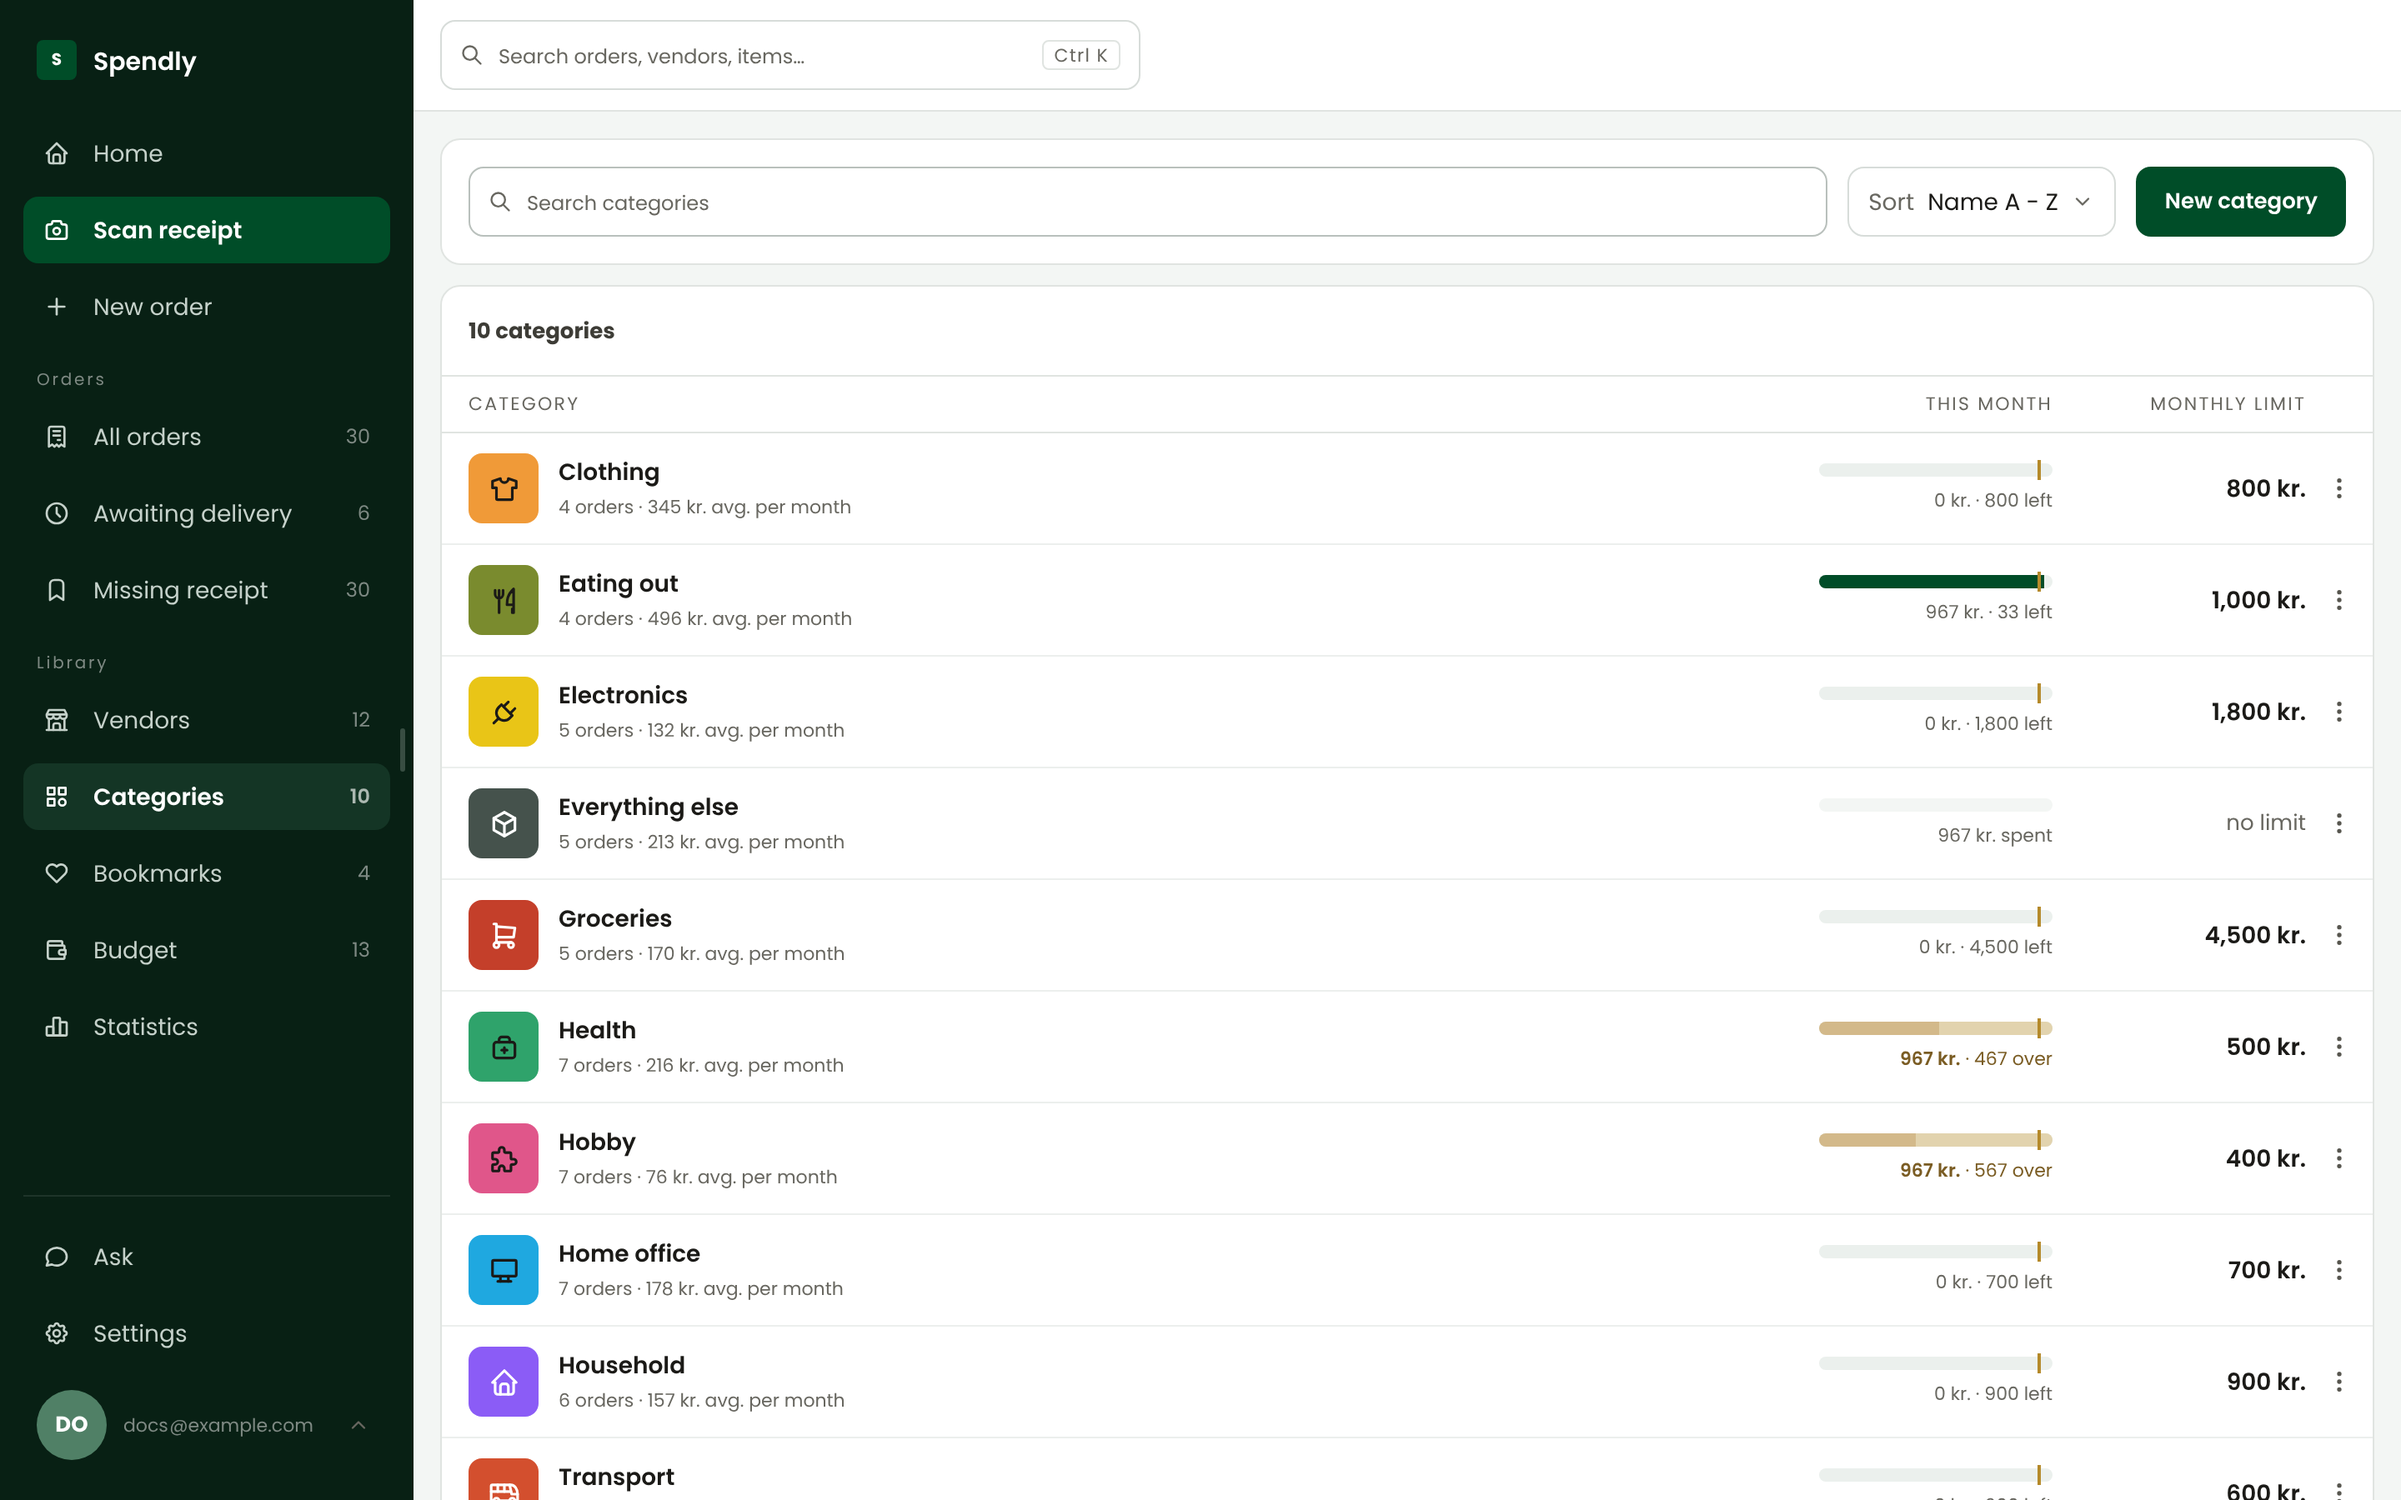
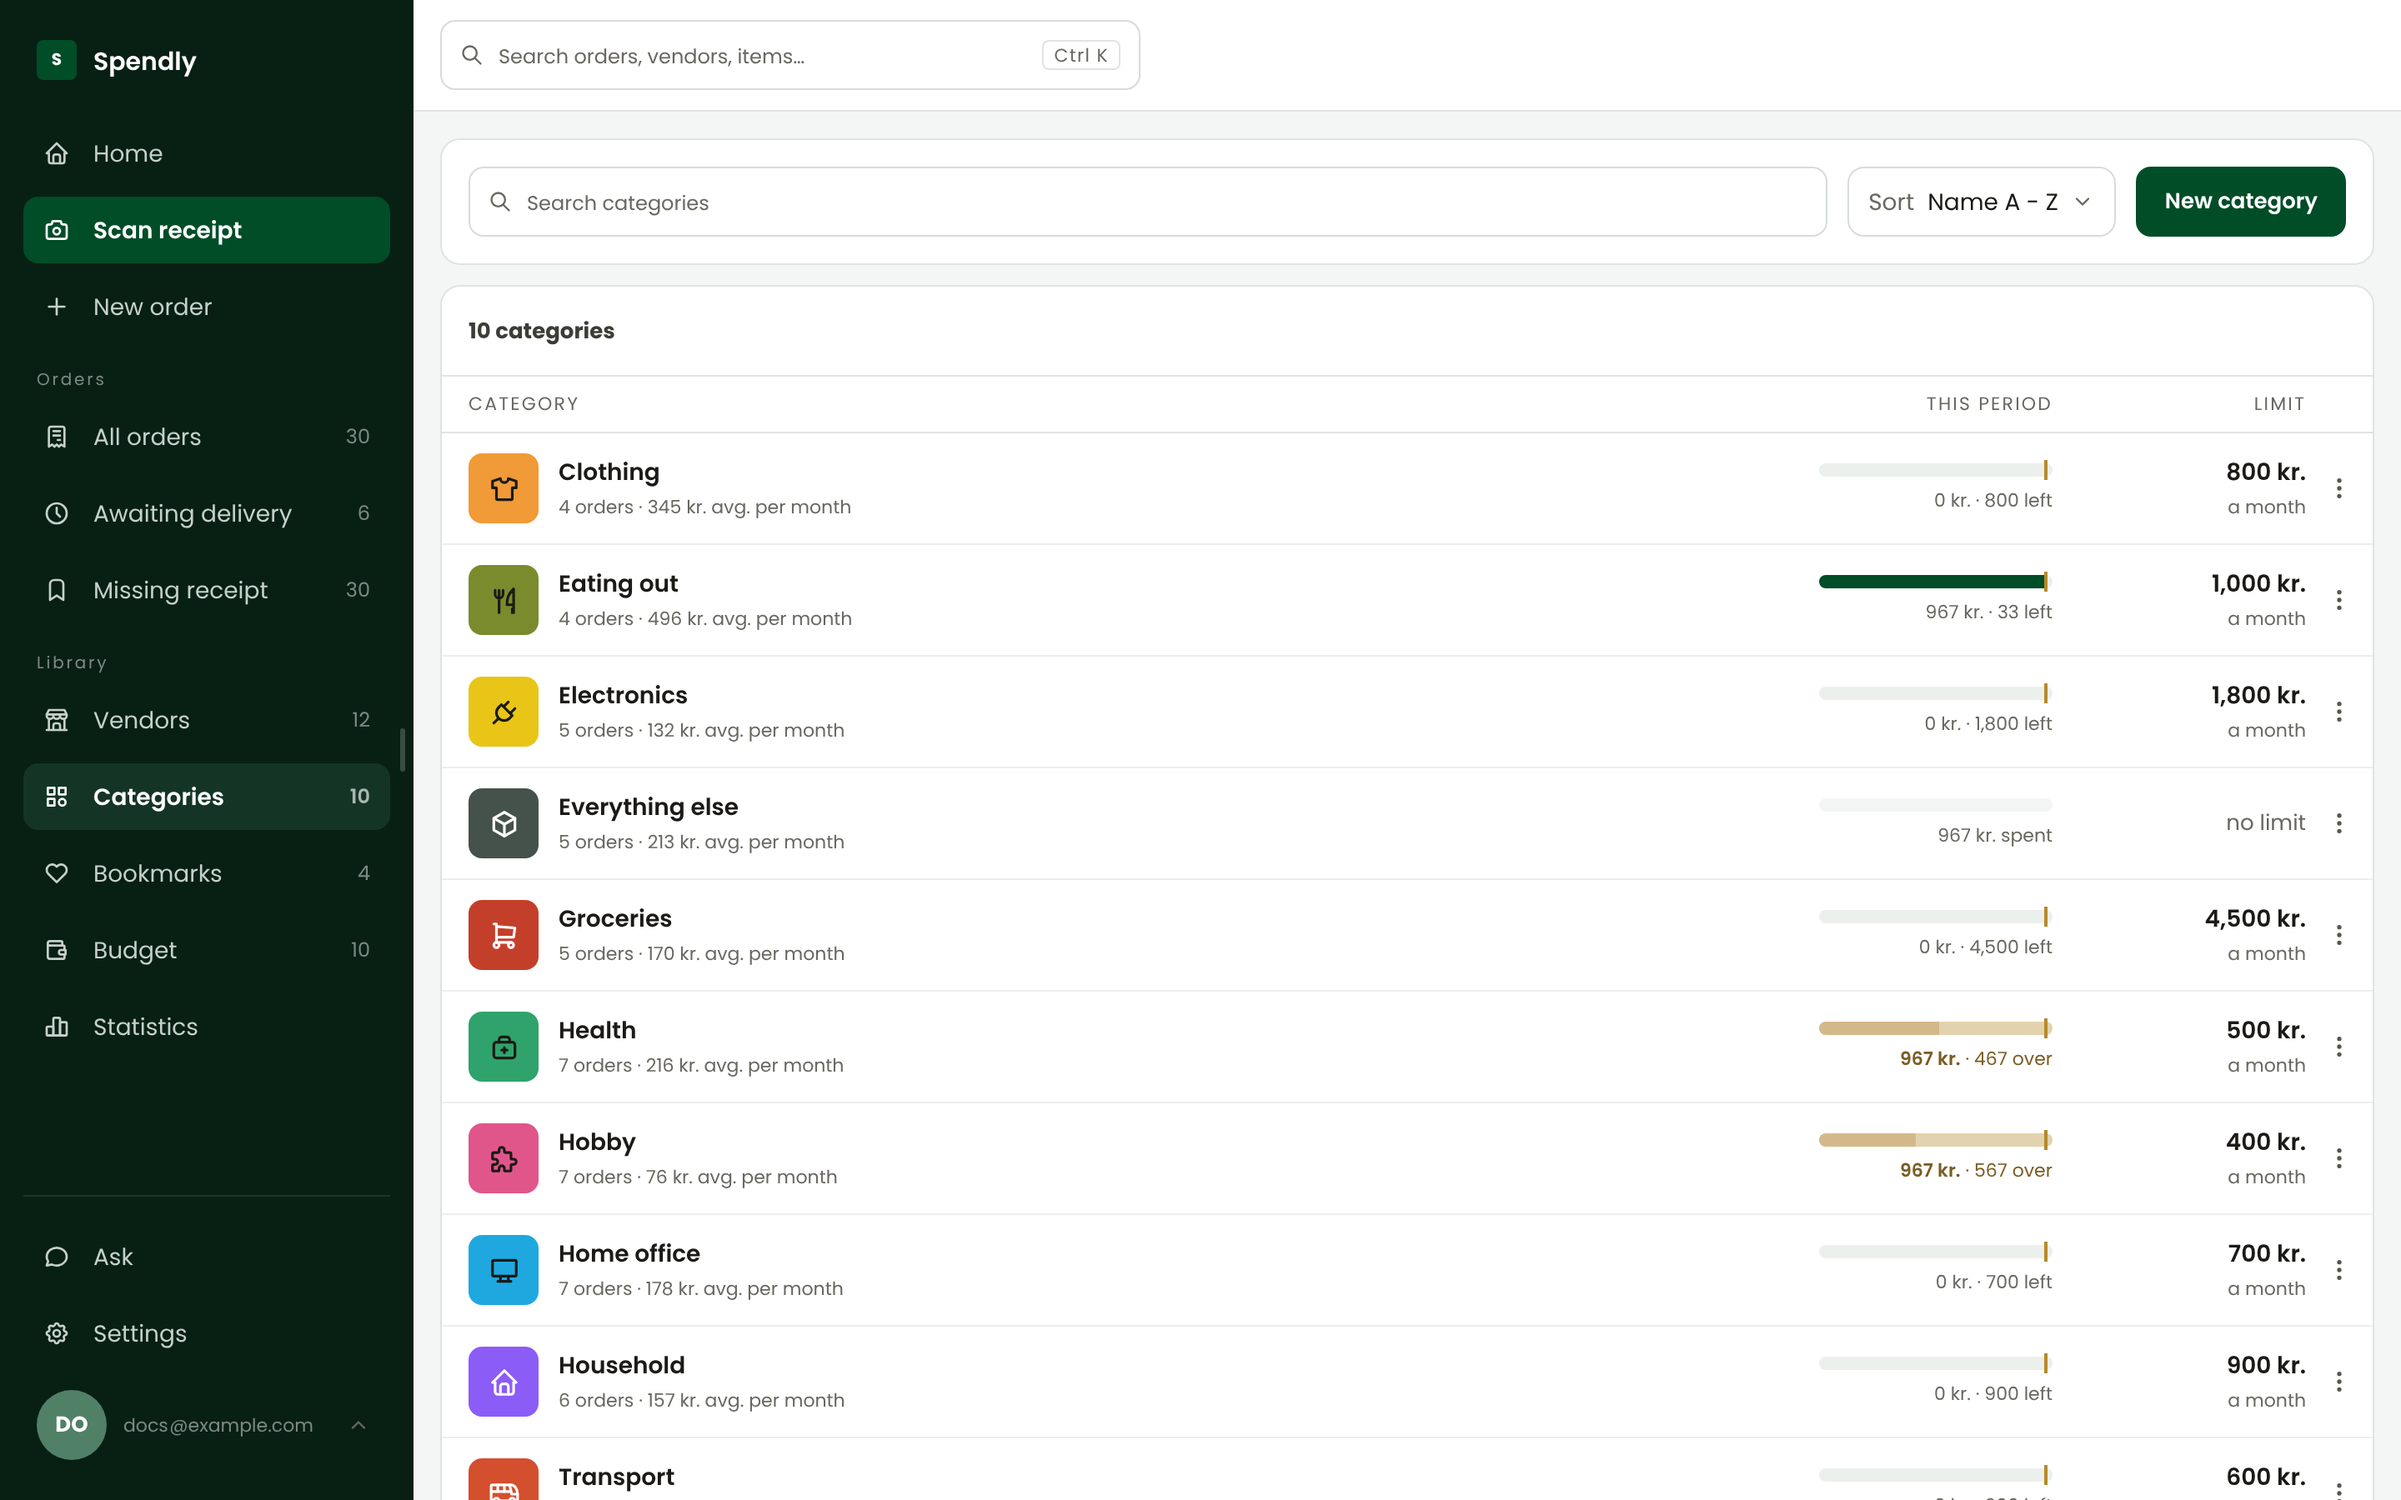
Categories picture with the period beside each limit

diff --git a/README.md b/README.md
@@ -154,7 +154,7 @@ Everything that needs you, on one page.
 
 ![Vendors, with their orders and spend](docs/vendors.png)
 
-![Categories, with this month against each limit](docs/categories.png)
+![Categories, with this month or this year against each limit](docs/categories.png)
 
 - **Vendors** - search, sort, archive, and merge two into one. A vendor has a
   picture, a colour, other names it matches on receipts, default categories, and "Leave out of
